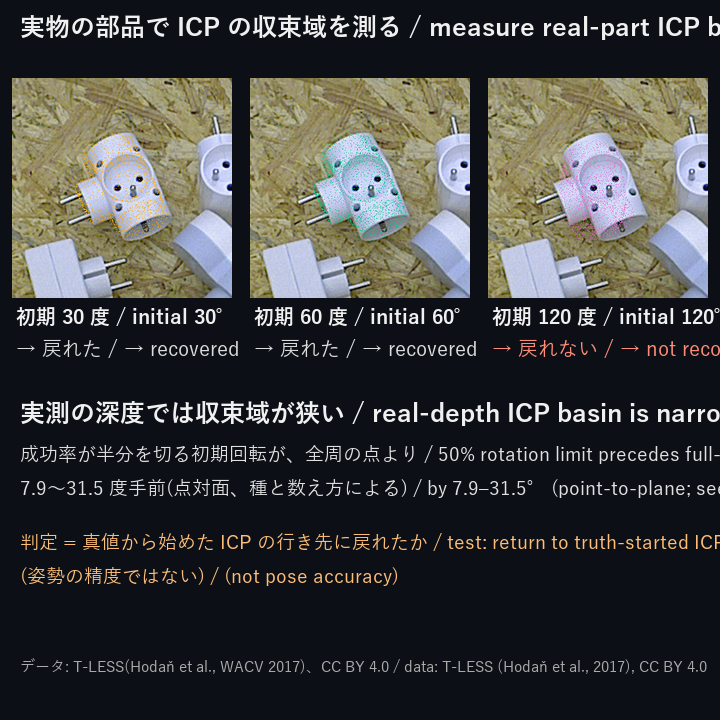
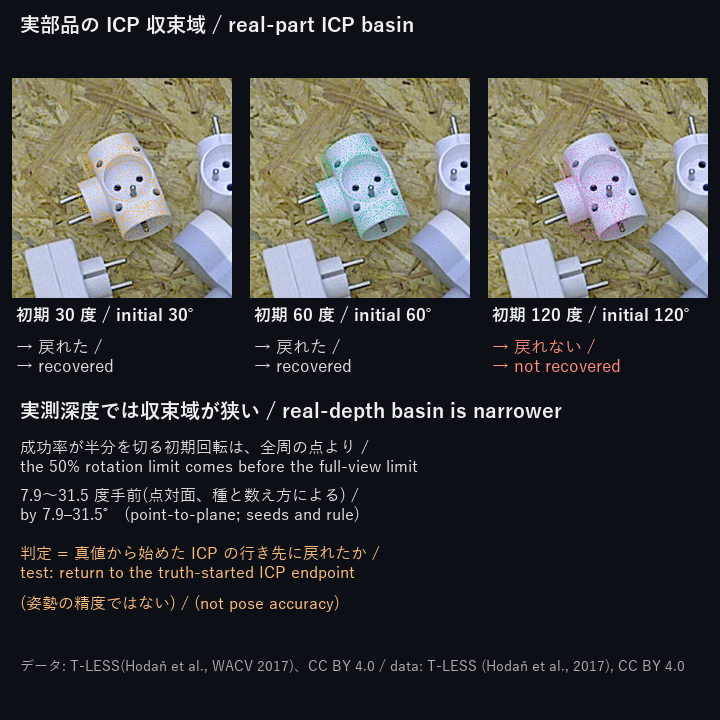
view2026: fit bilingual ICP cover text

diff --git a/examples/poc_registration_basin.py b/examples/poc_registration_basin.py
@@ -65,10 +65,10 @@ SHOWN: dict[str, str] = {}
 STILL_CREDIT_FROM_BOTTOM = 62
 #: 日英併記の表紙で使う余白と文字サイズ。 / Margins and font sizes for the bilingual cover.
 STILL_MARGIN = 20
-STILL_TITLE_FONT = 25
-STILL_PANEL_FONT = 20
-STILL_BODY_FONT = 19
-STILL_CREDIT_FONT = 15
+STILL_TITLE_FONT = 20
+STILL_PANEL_FONT = 17
+STILL_BODY_FONT = 16
+STILL_CREDIT_FONT = 14
 PCA_TABLE_COLUMN_WIDTH = 205
 
 
@@ -1046,31 +1046,29 @@ def video_real_scan(root, model, normals, frames, diam, rate, half, floor_med, h
     S, PT = 720, 220
     st = Image.new("RGB", (S, S), (12, 16, 22))
     ds = ImageDraw.Draw(st)
-    ds.text((STILL_MARGIN, 14), _bi("実物の部品で ICP の収束域を測る",
-                                    "measure real-part ICP basin"),
+    ds.text((STILL_MARGIN, 14), _bi("実部品の ICP 収束域", "real-part ICP basin"),
             font=font(STILL_TITLE_FONT, True), fill=(240, 240, 240))
     for j, c in enumerate(cases):
         xo = 12 + j * (PT + 18)
         st.paste(overlay(c, VIDEO_ITERS).resize((PT, PT), Image.Resampling.LANCZOS), (xo, 78))
         ds.text((xo + 4, 306), _bi("初期 %.0f 度" % c["deg"], "initial %.0f°" % c["deg"]),
                 font=font(STILL_PANEL_FONT, True), fill=(240, 240, 240))
-        verdict = _bi("→ 戻れた", "→ recovered") if c["ok"] else _bi("→ 戻れない", "→ not recovered")
+        verdict = "→ 戻れた /\n→ recovered" if c["ok"] else "→ 戻れない /\n→ not recovered"
         ds.text((xo + 4, 338), verdict, font=font(STILL_PANEL_FONT),
                 fill=(220, 220, 220) if c["ok"] else (255, 140, 120))
-    ds.text((STILL_MARGIN, 400), _bi("実測の深度では収束域が狭い", "real-depth ICP basin is narrower"),
+    ds.text((STILL_MARGIN, 400), _bi("実測深度では収束域が狭い", "real-depth basin is narrower"),
             font=font(STILL_TITLE_FONT, True), fill=(240, 240, 240))
-    ds.text((STILL_MARGIN, 444), _bi("成功率が半分を切る初期回転が、全周の点より",
-                                     "50% rotation limit precedes full-view limit"),
+    ds.text((STILL_MARGIN, 438), "成功率が半分を切る初期回転は、全周の点より /\n"
+            "the 50% rotation limit comes before the full-view limit",
             font=font(STILL_BODY_FONT), fill=(225, 225, 225))
-    ds.text((STILL_MARGIN, 478), _bi("%.1f〜%.1f 度手前(点対面、種と数え方による)" %
-                                     (narrow_span[0], narrow_span[1]),
-                                     "by %.1f–%.1f° (point-to-plane; seeds/rule)" %
-                                     (narrow_span[0], narrow_span[1])), font=font(STILL_BODY_FONT),
-            fill=(225, 225, 225))
-    ds.text((STILL_MARGIN, 532), _bi("判定 = 真値から始めた ICP の行き先に戻れたか",
-                                     "test: return to truth-started ICP endpoint"),
+    ds.text((STILL_MARGIN, 486), "%.1f〜%.1f 度手前(点対面、種と数え方による) /\n"
+            "by %.1f–%.1f° (point-to-plane; seeds and rule)" %
+            (narrow_span[0], narrow_span[1], narrow_span[0], narrow_span[1]),
+            font=font(STILL_BODY_FONT), fill=(225, 225, 225))
+    ds.text((STILL_MARGIN, 544), "判定 = 真値から始めた ICP の行き先に戻れたか /\n"
+            "test: return to the truth-started ICP endpoint",
             font=font(STILL_BODY_FONT), fill=(255, 190, 120))
-    ds.text((STILL_MARGIN, 566), _bi("(姿勢の精度ではない)", "(not pose accuracy)"),
+    ds.text((STILL_MARGIN, 594), _bi("(姿勢の精度ではない)", "(not pose accuracy)"),
             font=font(STILL_BODY_FONT), fill=(255, 190, 120))
     ds.text((STILL_MARGIN, S - STILL_CREDIT_FROM_BOTTOM),
             _bi("データ: T-LESS(Hodaň et al., WACV 2017)、CC BY 4.0",
